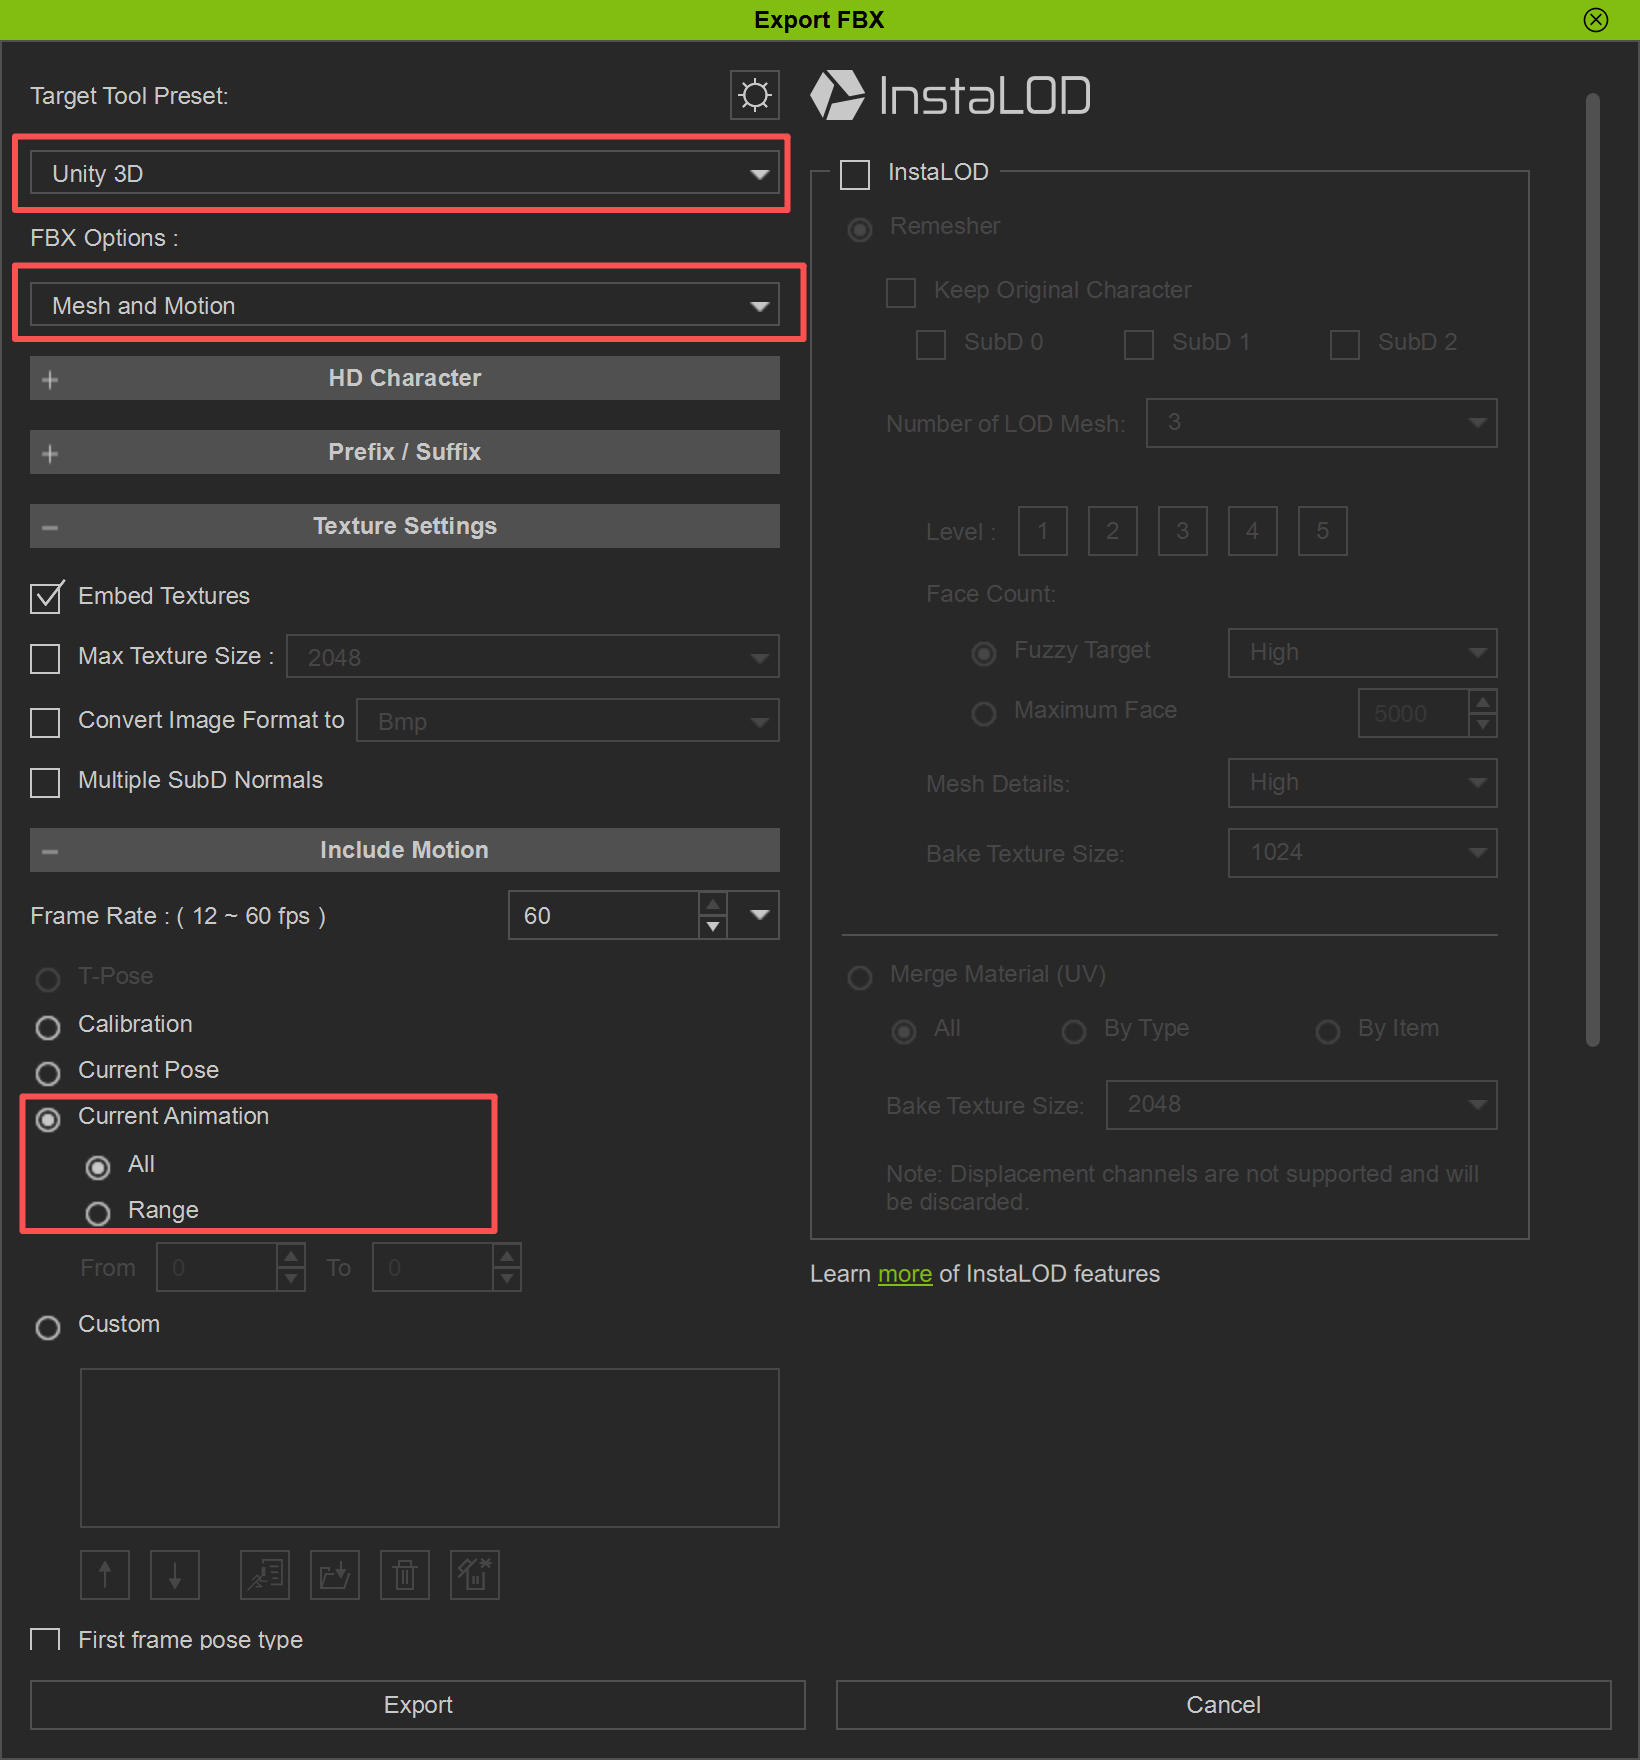
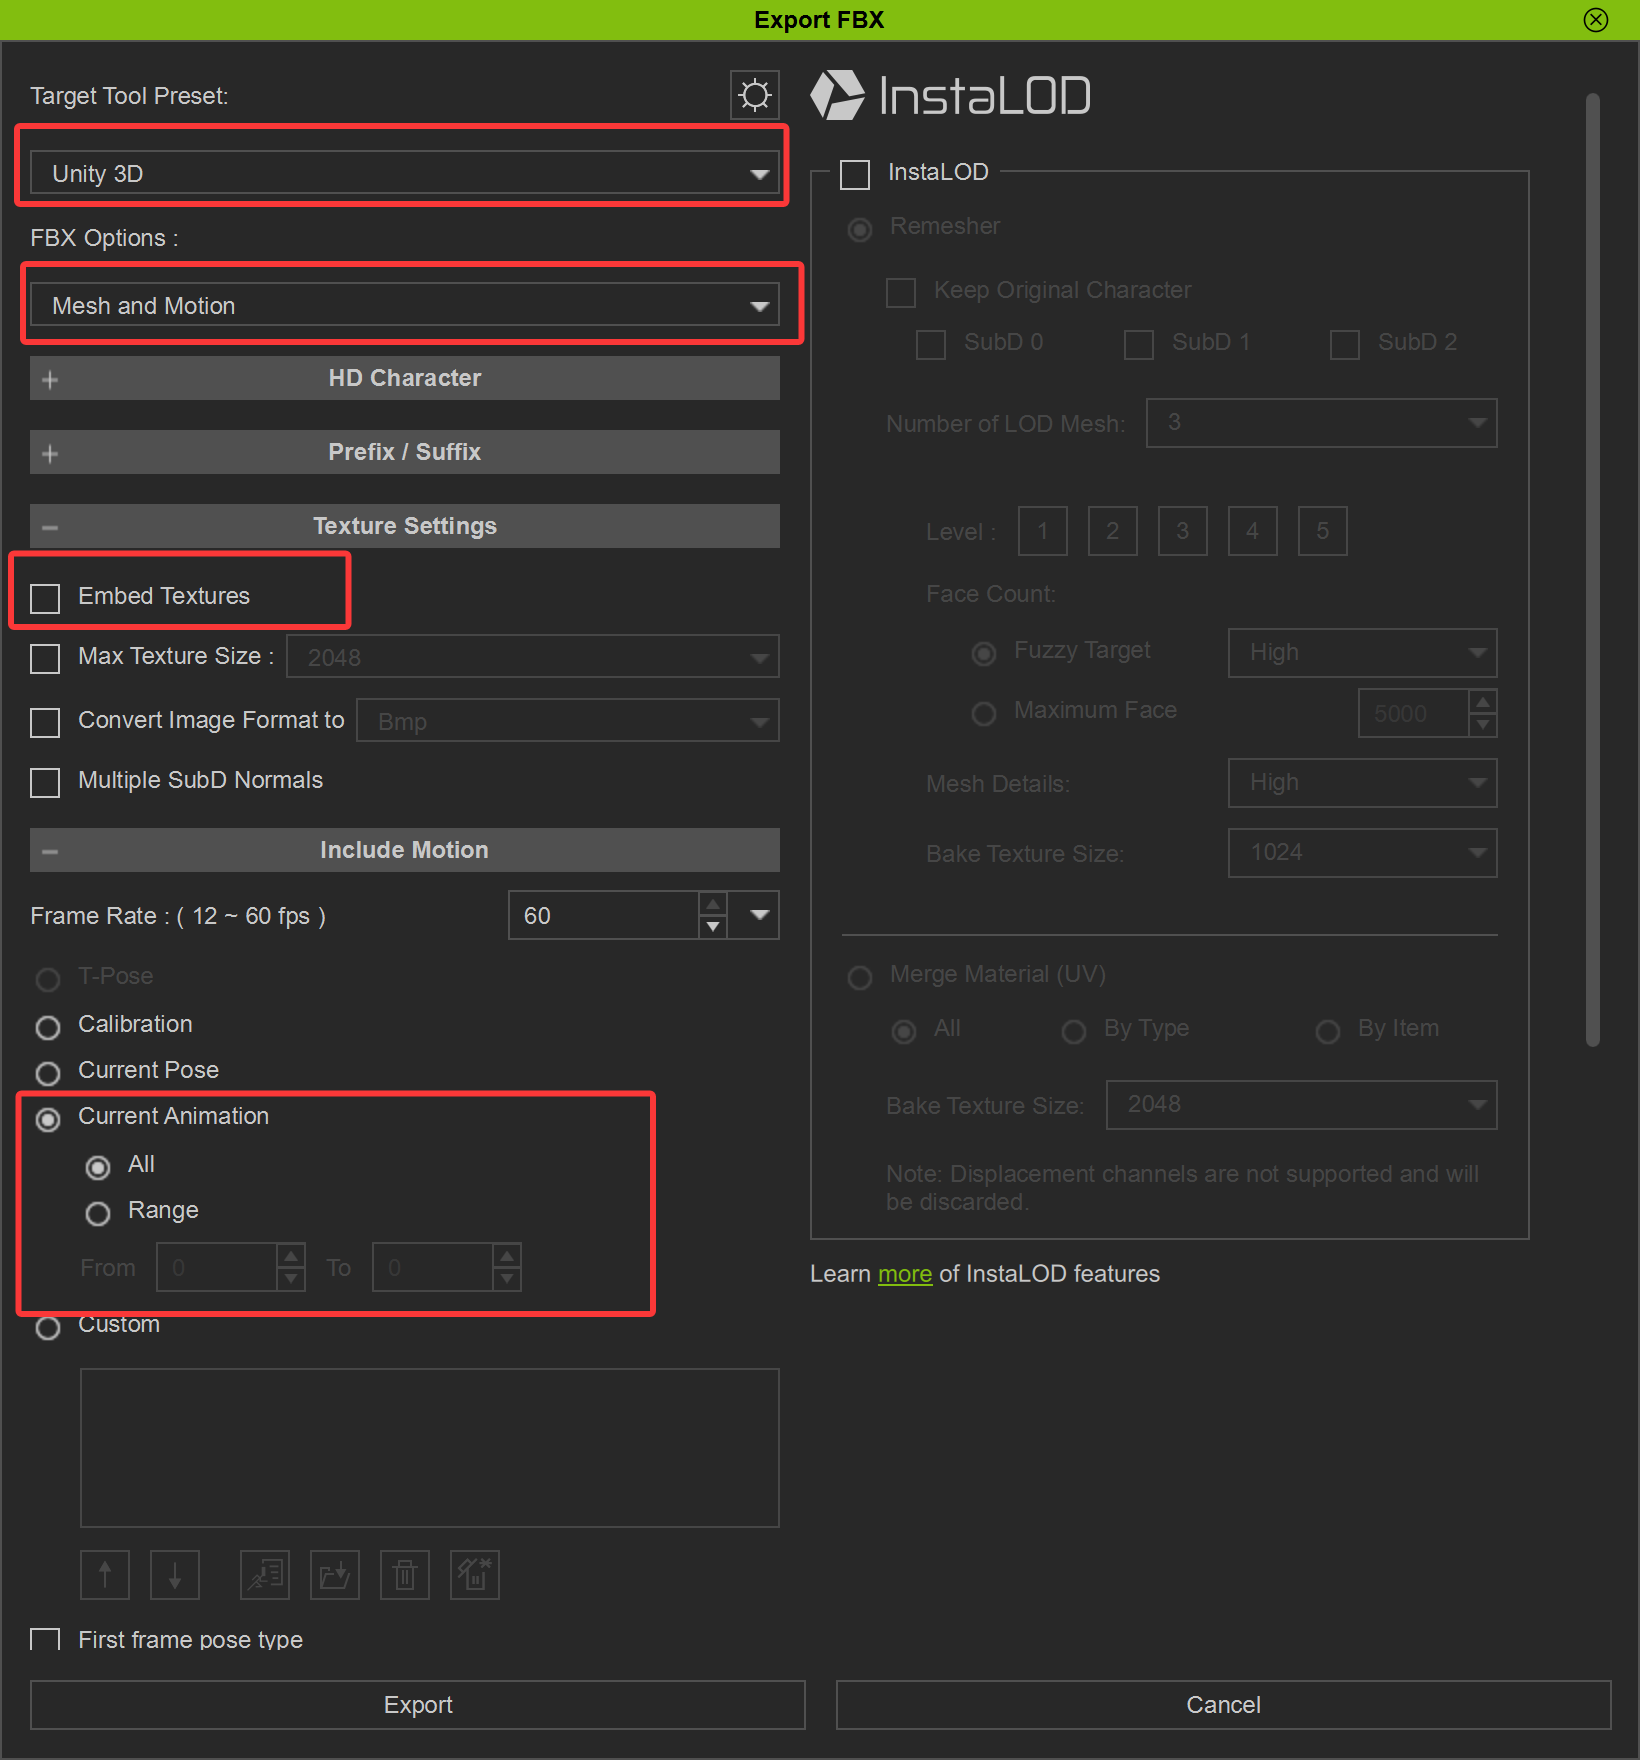
图片错误修改

Changed region(s): [[0.0, 0.0625, 0.4976, 0.2188], [0.0, 0.5938, 0.4043, 0.75], [0.0, 0.3125, 0.2177, 0.375]]

diff --git a/Unity虚拟数字人.md b/Unity虚拟数字人.md
@@ -44,7 +44,7 @@ https://github.com/k2-fsa/sherpa-onnx
 
 	2.御姐音: sherpa-onnx-vits-zh-ll  ID:0
 
-	3.大叔音: kokoro-multi-lang-v1_1  ID:132
+	3.大叔音: kokoro-multi-lang-v1_1  ID:102
 
 	4.男青年: sherpa-onnx-vits-zh-ll  ID:4
 
@@ -155,6 +155,10 @@ https://cloud.siliconflow.cn/i/psmQ8Adt
 [Charaecter Creater制作数字人和导出到unity_哔哩哔哩_bilibili](https://www.bilibili.com/video/BV1qRqBYgEdx/?spm_id_from=333.1387.favlist.content.click&vd_source=cae5be50cf165d6b7a9ca9bf393cb773)
 
 [人工智能连接虚拟数字人、 Unity 教程（convai）_哔哩哔哩_bilibili](https://www.bilibili.com/video/BV17eQzYyEVz/?spm_id_from=333.1387.favlist.content.click&vd_source=cae5be50cf165d6b7a9ca9bf393cb773)
+
+
+
+头发:Messy Curly
 
 
 
